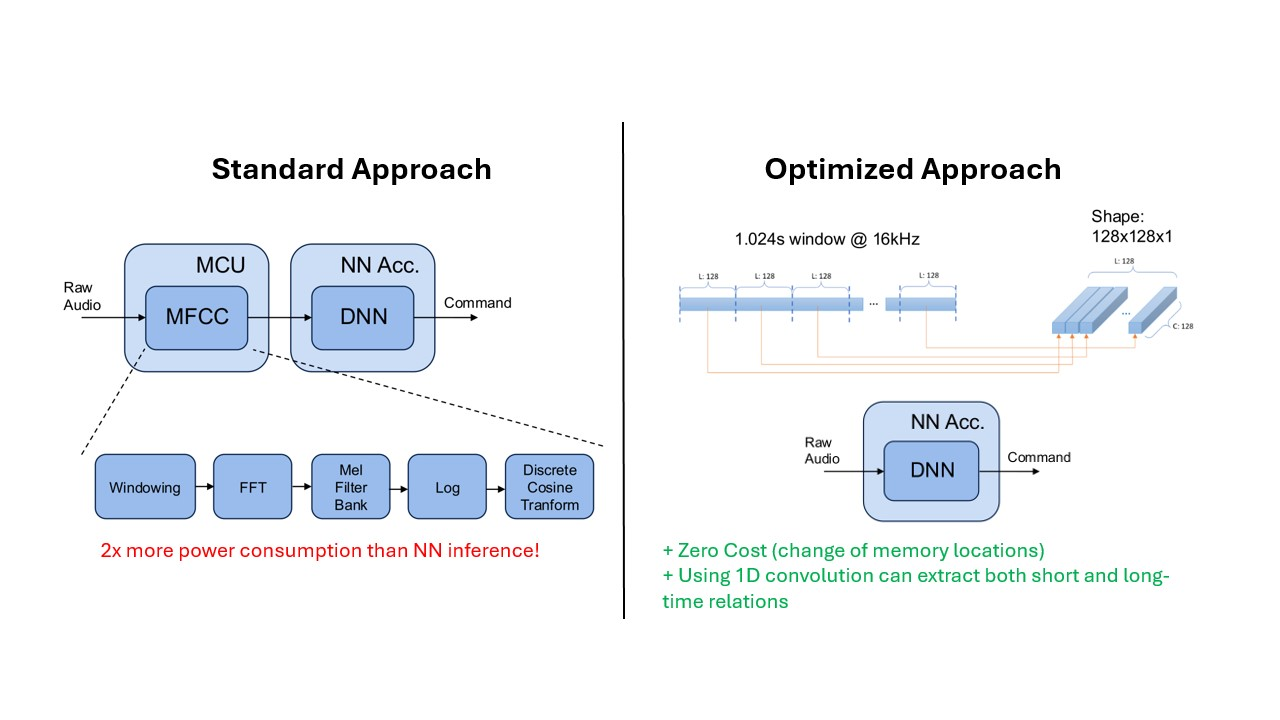
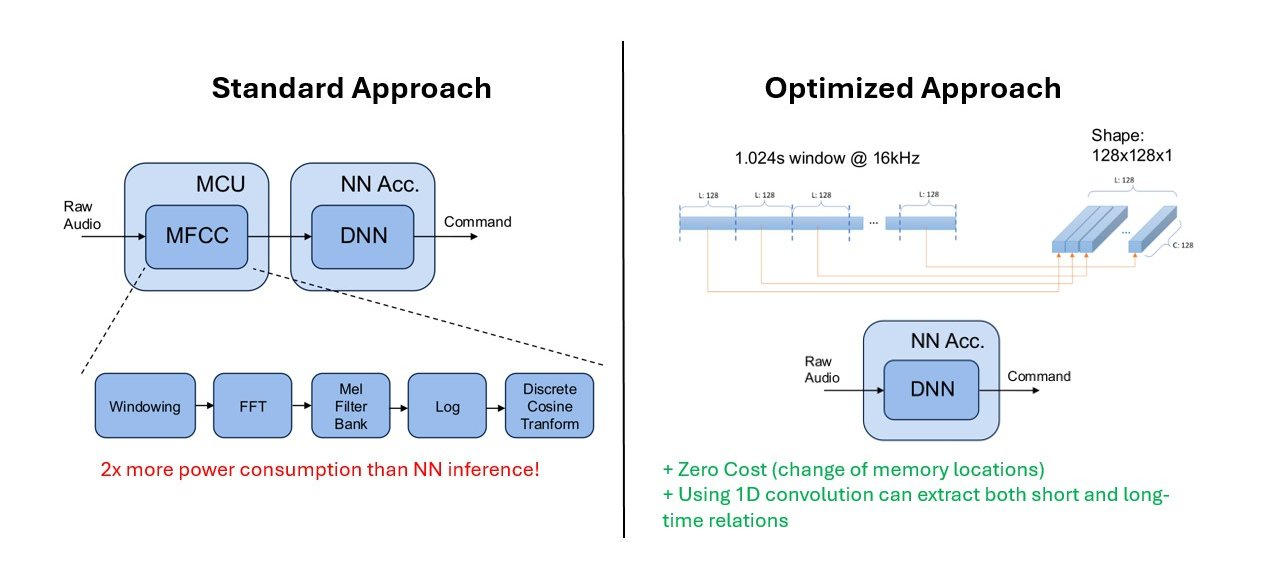
about and cv page

diff --git a/_projects/2_project.md b/_projects/2_project.md
@@ -9,12 +9,12 @@ giscus_comments: true
 ---
 
 ## Overview
-CoughNet is an end-to-end Machine Learning project I did in the context of a project based course I took at ETH called "Machine Learning on Microcontrollers". I wanted to achieve continuous, 24/7 monitoring of cough frequency to assess the severity of respiratory diseases and the efficacy of antitussive therapies. By deploying high-performance inference directly on a micrcontroller, I wanted to adress critical requirement for patient privecy and create a proof-of-concept for ultra-low power healthcare monitoring in a wearable form factor. 
+CoughNet is an end-to-end Machine Learning project I did in the context of a project based course I took at ETH called "Machine Learning on Microcontrollers". I wanted to achieve continuous, 24/7 monitoring of cough frequency to assess the severity of respiratory diseases and the efficacy of antitussive therapies. By deploying high-performance inference directly on a micrcontroller, I wanted to adress critical requirement for patient privacy and create a proof-of-concept for ultra-low power healthcare monitoring in a wearable form factor. 
 
-## Hardware-Software Co-desing
+## Hardware-Software Codesing
 The core innovation of CoughNet lies in its hardware-optimized architecture. While traditional audio classification relies on MFCC (Mel-frequency cepstral coefficients) for feature extraction, this process can consume over 2x more power than the actual neural network inference.
 
-To solve this I used the MAX78000 which has a CNN accelerator as a target device, and I designed an optimized 1D-CNN architechture that processees raw audio windows directly. 
+To solve this I used the MAX78000 AI microcontroller which has a CNN accelerator as a target device, and I designed an optimized 1D-CNN architechture that processees raw audio windows directly. 
 
 <div class="row">
     <div class="col-sm mt-3 mt-md-0">
@@ -25,6 +25,7 @@ To solve this I used the MAX78000 which has a CNN accelerator as a target device
     Target Device Architecture
 </div>
 
+##### Key Features:
 - Dual core: Arm Cortex-M4 + RISC-V Coprocessor
 - **Convolutional Neural Network Accelerator**
 - 512KB Flash
@@ -36,7 +37,7 @@ To solve this I used the MAX78000 which has a CNN accelerator as a target device
     </div>
 </div>
 <div class="caption">
-    Target Device Architecture
+    Method Comparision.
 </div>
 
 ## Dataset and Preprocessing
